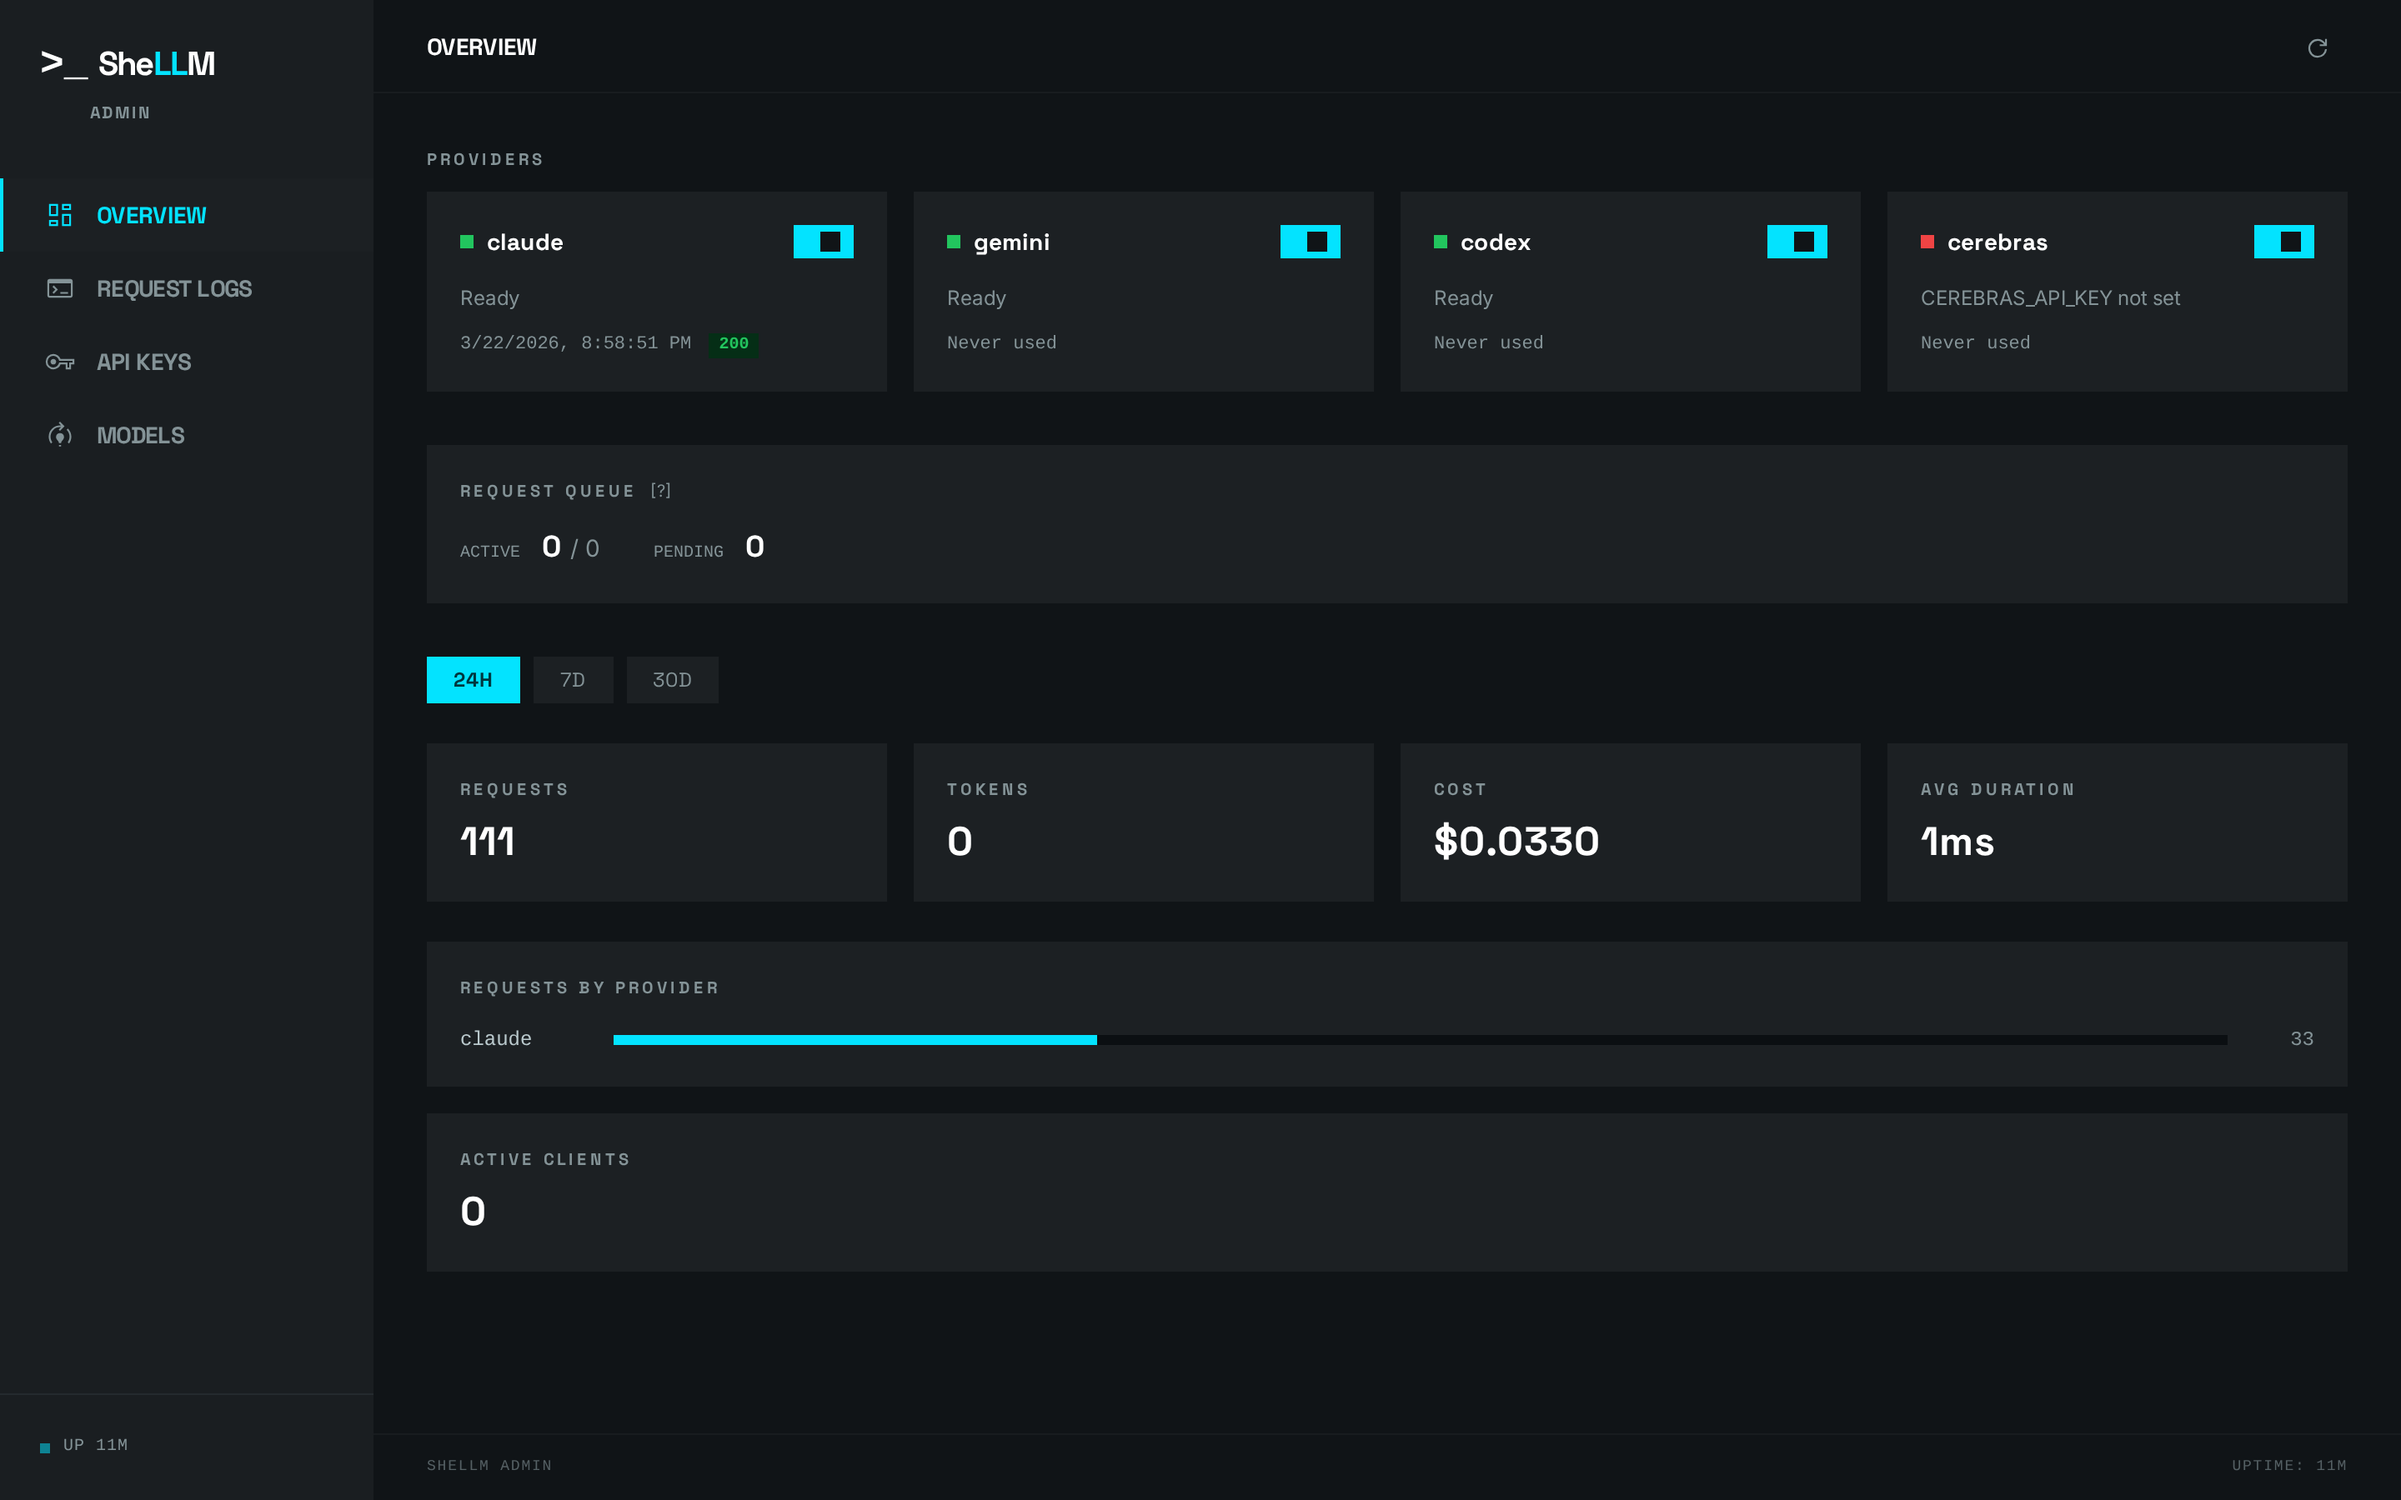
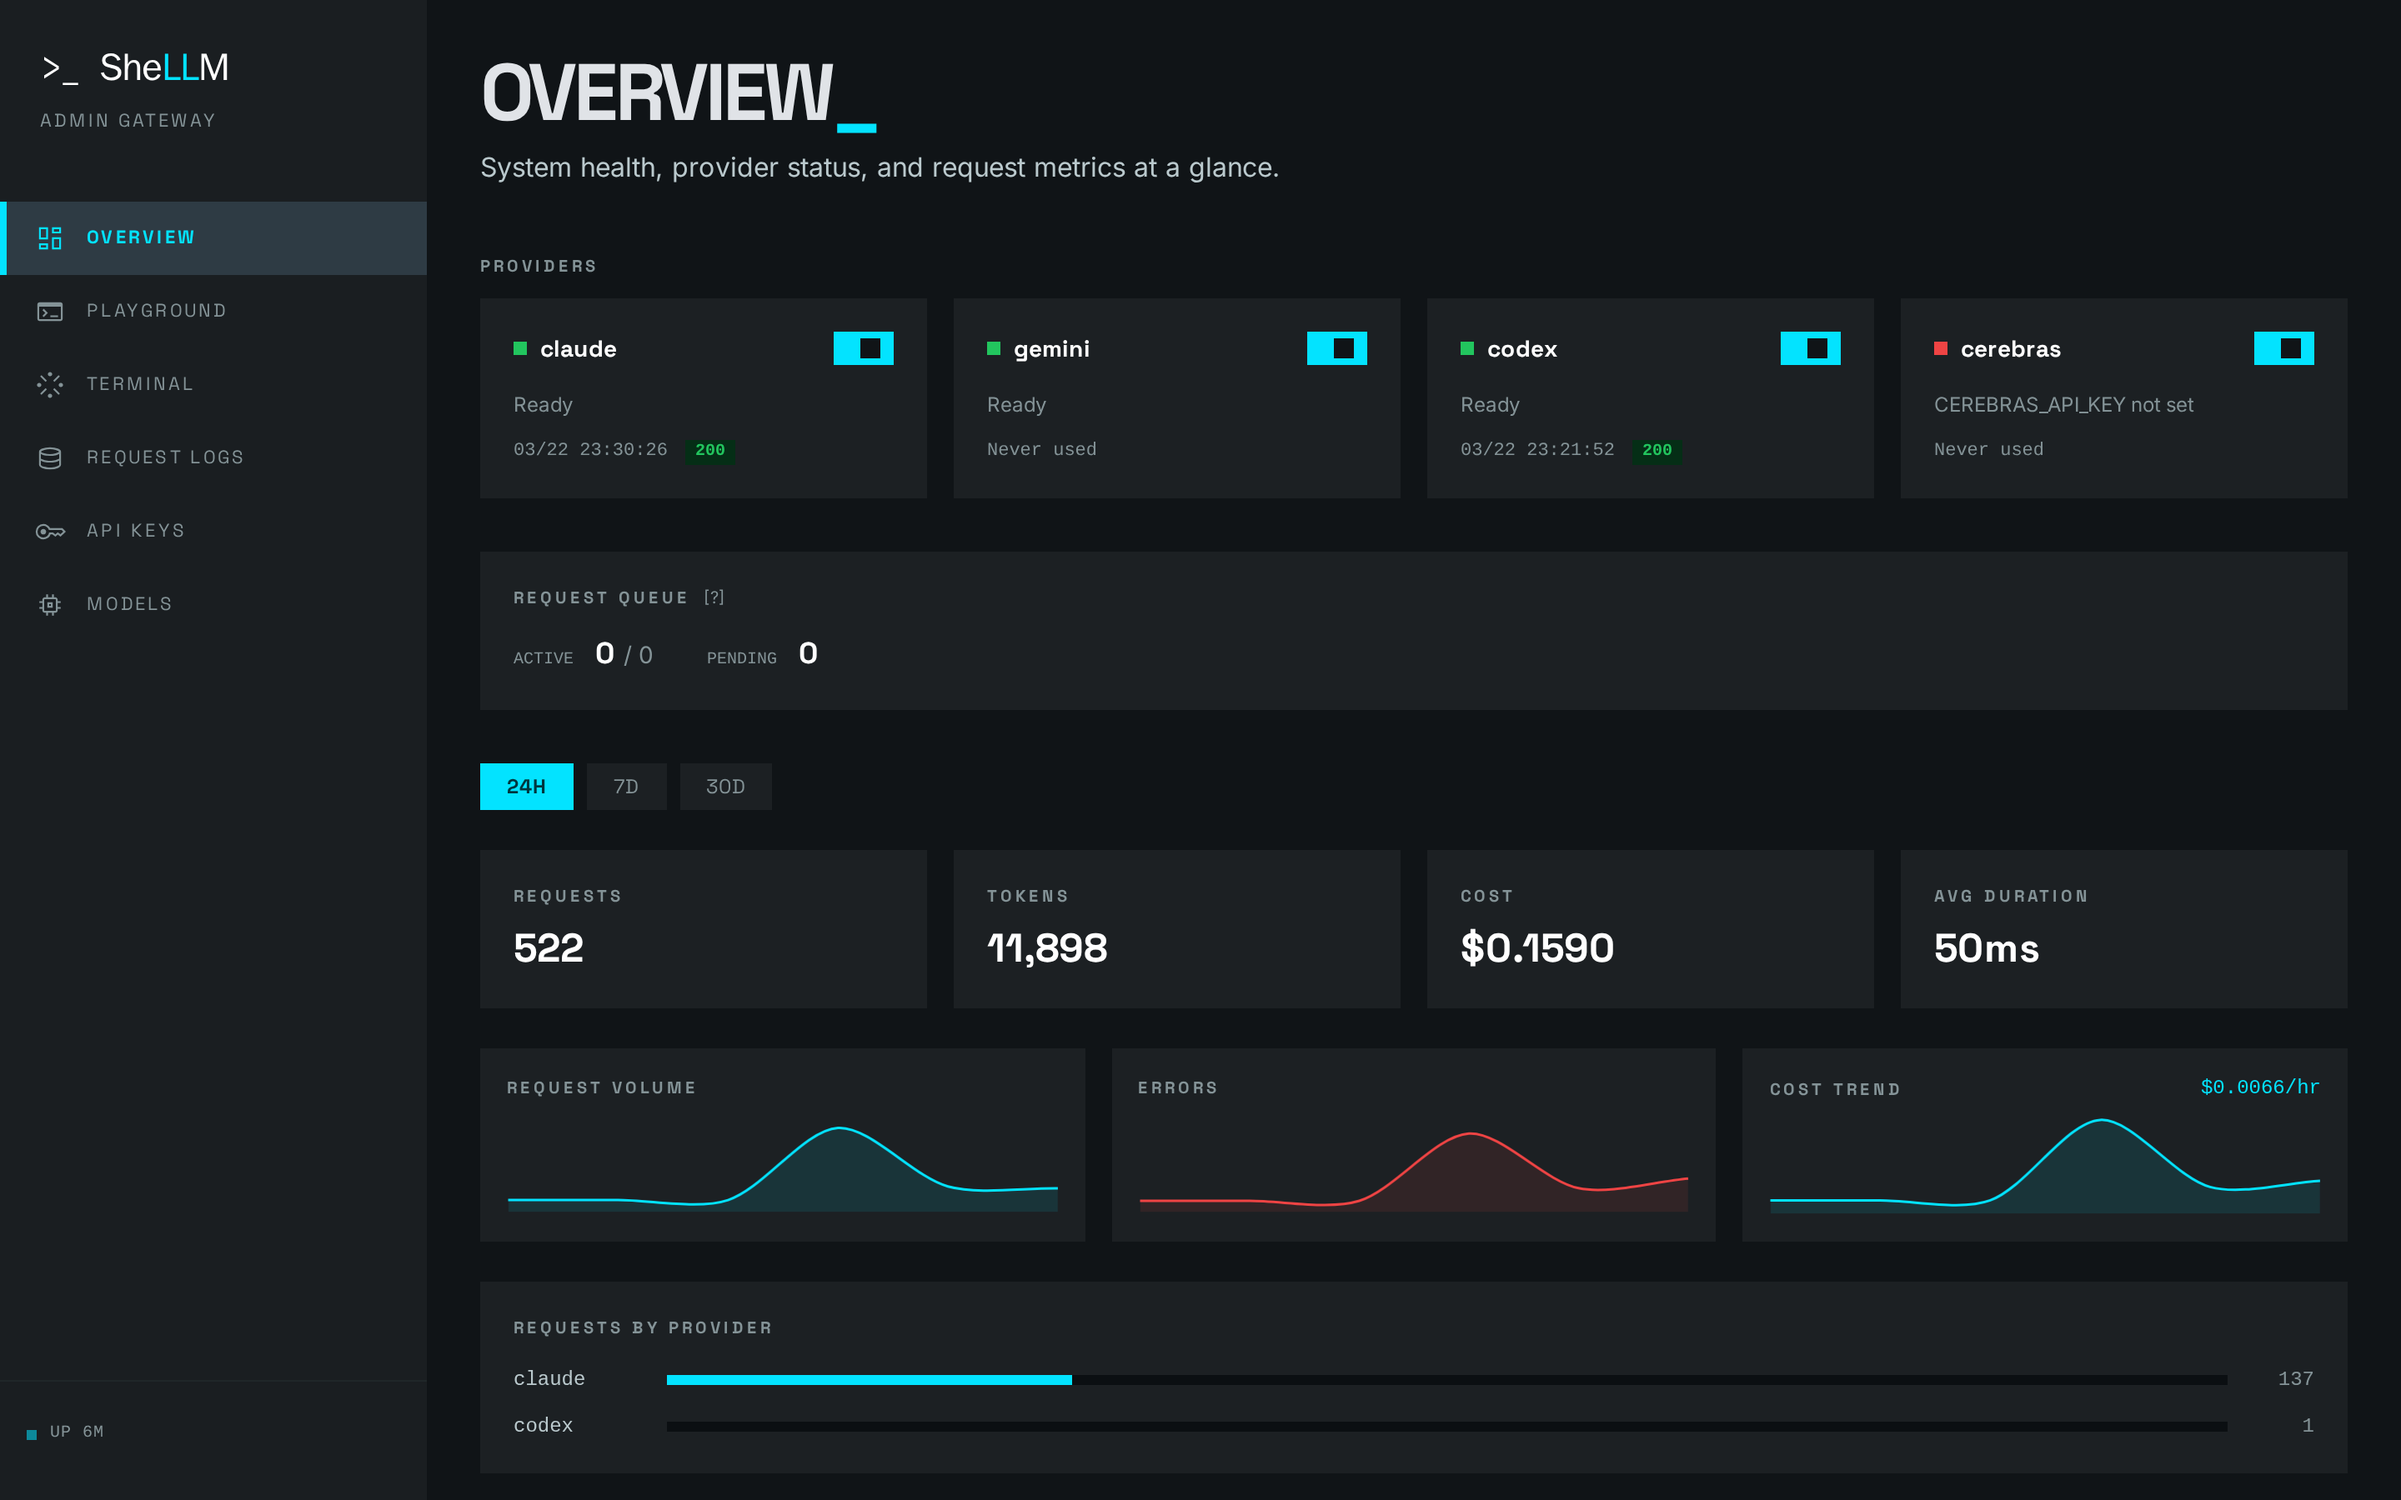
Bump version 0.3.0

diff --git a/scripts/screenshots.js b/scripts/screenshots.js
@@ -9,7 +9,11 @@
  * Requires: playwright (devDependency)
  * Outputs:  docs/screenshots/landing.png
  *           docs/screenshots/dashboard-overview.png
+ *           docs/screenshots/dashboard-playground.png
+ *           docs/screenshots/dashboard-terminal.png
  *           docs/screenshots/dashboard-logs.png
+ *           docs/screenshots/dashboard-keys.png
+ *           docs/screenshots/dashboard-models.png
  */
 
 const path = require('path');
@@ -41,8 +45,36 @@ const PAGES = [
     delay: 1500, // wait for Alpine + API data
   },
   {
+    name: 'dashboard-playground',
+    url: '/admin/dashboard/#playground',
+    auth: true,
+    waitFor: 'networkidle',
+    delay: 1500,
+  },
+  {
+    name: 'dashboard-terminal',
+    url: '/admin/dashboard/#live',
+    auth: true,
+    waitFor: 'domcontentloaded', // SSE keeps connection open, networkidle never fires
+    delay: 3000,
+  },
+  {
     name: 'dashboard-logs',
     url: '/admin/dashboard/#logs',
+    auth: true,
+    waitFor: 'networkidle',
+    delay: 1500,
+  },
+  {
+    name: 'dashboard-keys',
+    url: '/admin/dashboard/#keys',
+    auth: true,
+    waitFor: 'networkidle',
+    delay: 1500,
+  },
+  {
+    name: 'dashboard-models',
+    url: '/admin/dashboard/#models',
     auth: true,
     waitFor: 'networkidle',
     delay: 1500,

diff --git a/CHANGELOG.md b/CHANGELOG.md
@@ -7,6 +7,55 @@ and this project adheres to [Semantic Versioning](https://semver.org/spec/v2.0.0
 
 ## [Unreleased]
 
+## [0.3.0] - 2026-03-23
+
+### Added
+
+- **admin:** add Terminal page with live server output stream
+- **admin:** add Live Logs page with terminal-style real-time feed
+- **admin:** add live log stream endpoint with event emitter
+- **admin:** redesign models page to match design mockup
+- **admin:** redesign request logs page with stats summary and improved UX
+- **admin:** add sparkline charts, auto-refresh, and cost burn rate to overview
+- **admin:** add client description, audit log with UI activity panel
+- **dx:** add SQL migrations system and architecture diagram
+- **api:** add response_format and top_p parameter passthrough
+- **dx:** add pre-commit lint hook and npm run seed for demo data
+- **admin:** add error rate and cost-by-provider widgets to overview dashboard
+- **admin:** add expires_at display and input to keys UI
+- **resilience,streaming:** complete backlog items 5 & 6
+- **dx:** add ESLint with flat config, npm audit in CI, fix all lint errors
+- **admin:** add error rate breakdown and cost by provider to /admin/stats
+- **health:** add webhook alerting on provider health transitions
+- **auth:** add key expiration with expires_at field
+- **api:** add temperature parameter passthrough to all providers
+- **admin:** add Playground page with streaming, redesigned sidebar, and page headers
+- **streaming:** add SSE streaming for /v1/chat/completions with client disconnect handling
+- **health:** add startup health gate, background poller, and Gemini keychain fix
+- **admin:** add CSV log export with filtering and formula injection protection
+
+### Fixed
+
+- **admin:** replace text logo with SVG assets and add SVG favicon
+- **db:** replace non-sequential 001b migration with idempotent 004
+- **db:** handle pre-existing DBs in migration runner, fix sparkline height
+- **security:** improve secret redaction to catch short API key patterns
+- **health:** add --approval-mode yolo to Gemini deep check and handle yolo stderr warnings
+- **auth:** always require Bearer token, update tests, backlog, and CLAUDE.md
+- **screenshots:** replace Puppeteer with Playwright and fix font loading
+- **readme:** use SVG logos and add screenshot generation script
+- **docs:** fix API docs paths for GitHub Pages and update landing page
+- **ci:** update Pages workflow to use modular OpenAPI spec and client-side Redoc
+
+### Documentation
+
+- **backlog:** update #1 Models Page with expert review and current status
+- **backlog:** mark #7, #9, #12 as Done
+- **backlog:** update status for expires_at UI, dashboard widgets, response_format, seed, redaction
+- **backlog:** update status for temperature, key expiry, webhook, error rate, ESLint, npm audit
+- **backlog:** add Admin Playground (#14) and quick reference table
+
+
 ## [0.2.0] - 2026-03-22
 
 ### Added
@@ -101,5 +150,5 @@ single REST API — one interface, any provider.
 - **Test suite** — 180+ tests across 28 files using `node:test` + `supertest`,
   runs in under 1 second.
 
-[Unreleased]: https://github.com/rodacato/SheLLM/compare/v0.2.0...HEAD
-[0.2.0]: https://github.com/rodacato/SheLLM/compare/v0.1.0...v0.2.0
+[Unreleased]: https://github.com/rodacato/SheLLM/compare/v0.3.0...HEAD
+[0.3.0]: https://github.com/rodacato/SheLLM/compare/v0.2.0...v0.3.0

diff --git a/README.md b/README.md
@@ -42,9 +42,30 @@ Most LLM gateways assume you're paying per-token via API. SheLLM's primary use c
   <img src="docs/screenshots/dashboard-overview.png" alt="Admin Dashboard — Overview" width="720">
 </p>
 
+<details>
+<summary>More screenshots</summary>
+
+<p align="center">
+  <img src="docs/screenshots/dashboard-playground.png" alt="Admin Dashboard — Playground" width="720">
+</p>
+
+<p align="center">
+  <img src="docs/screenshots/dashboard-terminal.png" alt="Admin Dashboard — Terminal" width="720">
+</p>
+
 <p align="center">
   <img src="docs/screenshots/dashboard-logs.png" alt="Admin Dashboard — Request Logs" width="720">
 </p>
+
+<p align="center">
+  <img src="docs/screenshots/dashboard-keys.png" alt="Admin Dashboard — API Keys" width="720">
+</p>
+
+<p align="center">
+  <img src="docs/screenshots/dashboard-models.png" alt="Admin Dashboard — Models" width="720">
+</p>
+
+</details>
 
 ## Quick Start
 
